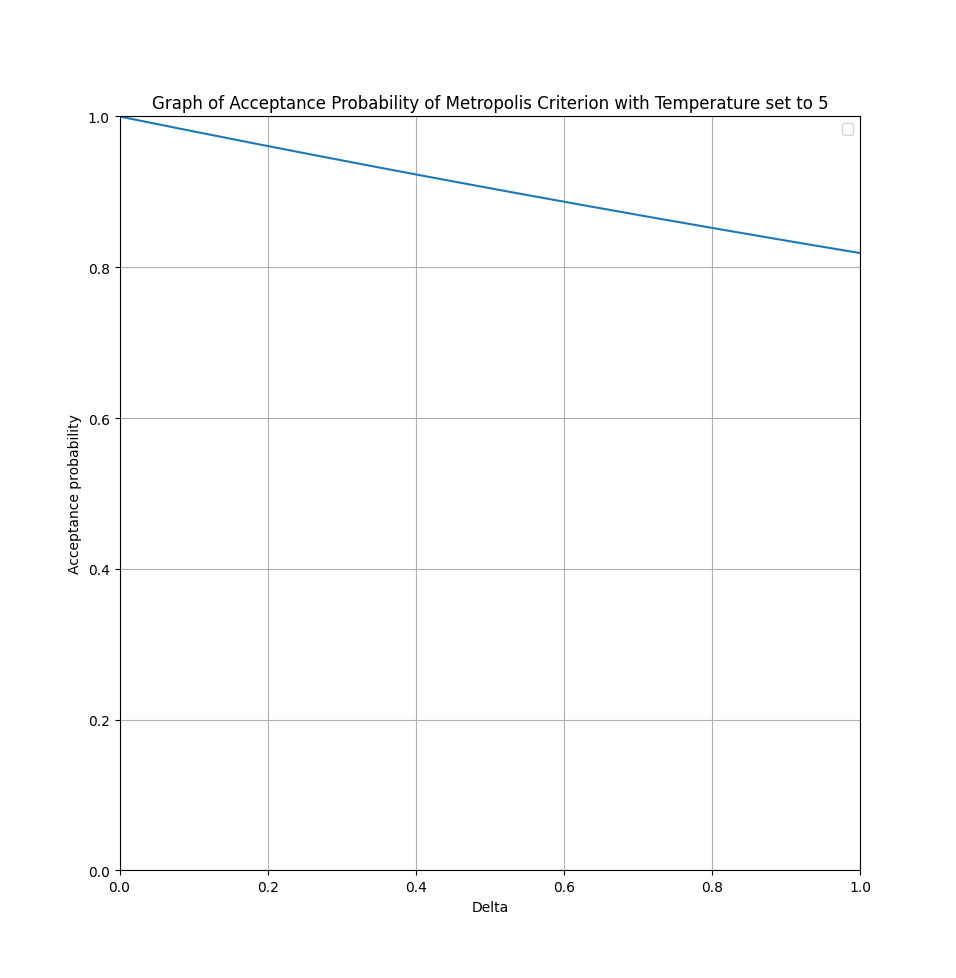
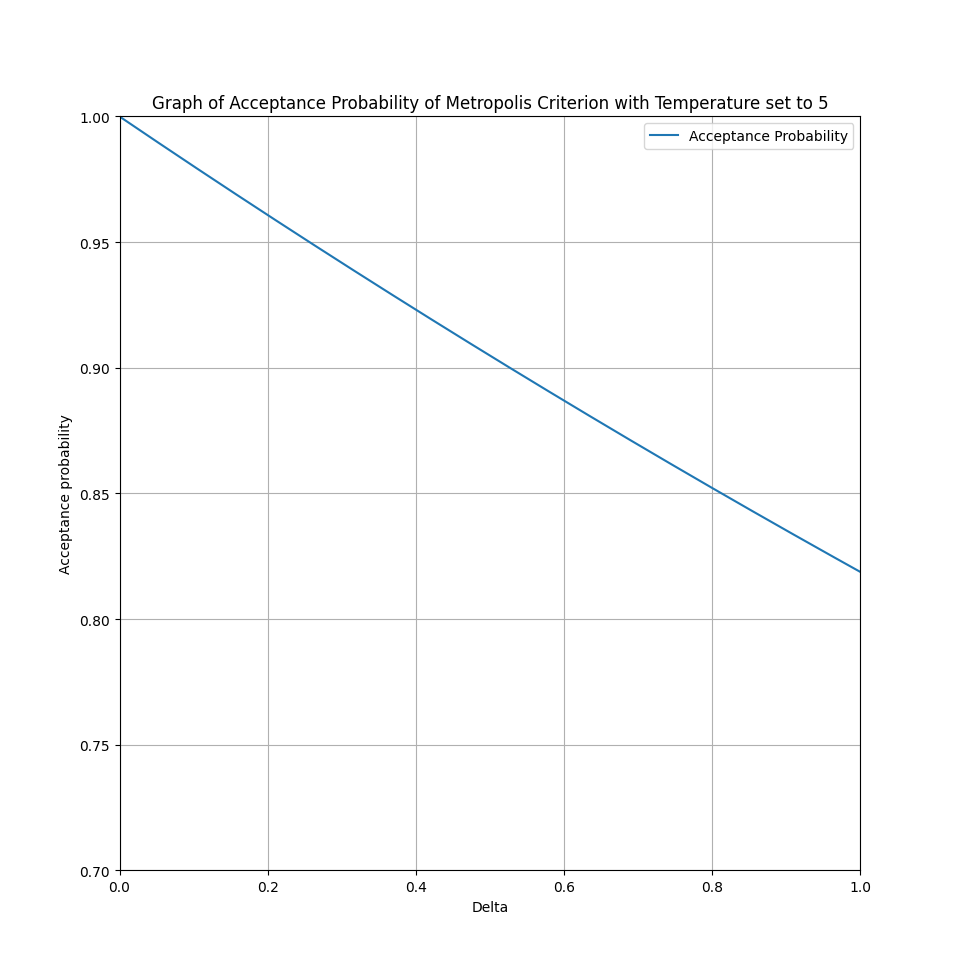
wip

diff --git a/Plots/plot_naiveSolution.py b/Plots/plot_naiveSolution.py
@@ -1,0 +1,60 @@
+import matplotlib.pyplot as plt
+from matplotlib.ticker import FuncFormatter
+
+
+def parse_file(filename):
+    elapsed_times = []
+    costs = []
+    handled_cases = []
+
+    with open(filename, 'r') as file:
+        count = 0
+        for line in file:
+            if 'elapsed' in line or 'UPDATE' in line:
+                parts = line.split(',')
+                elapsed = float(parts[0].split('elapsed: ')[1])
+                handled = int(parts[1].split('handled: ')[1])
+                cost = int(parts[2].split('cost: ')[1])
+
+                elapsed_times.append(elapsed)
+                costs.append(cost)
+                handled_cases.append(handled)
+                count += 1
+            if count == 100:
+                break
+
+    return elapsed_times, costs, handled_cases
+
+
+if __name__ == "__main__":
+    filename = 'naiveSolution.log'
+    elapsed_times, costs, handled_cases = parse_file(filename)
+
+    fig, ax1 = plt.subplots()
+
+    # Plotting cost vs elapsed time
+    color = 'tab:blue'
+    ax1.set_xlabel('Elapsed Time (seconds)')
+    ax1.set_ylabel('Cost', color=color)
+    ax1.plot(elapsed_times, costs, color=color)
+    ax1.tick_params(axis='y', labelcolor=color)
+
+    # Setting y-axis format to integer
+    ax1.get_yaxis().set_major_formatter(
+        FuncFormatter(lambda x, p: format(int(x), ',')))
+
+    ax2 = ax1.twinx()
+
+    # Plotting handled cases vs elapsed time
+    color = 'tab:red'
+    ax2.set_ylabel('Handled Incidents Count', color=color)
+    ax2.plot(elapsed_times, handled_cases, color=color)
+    ax2.tick_params(axis='y', labelcolor=color)
+
+    # Setting y-axis format to integer
+    ax2.get_yaxis().set_major_formatter(
+        FuncFormatter(lambda x, p: format(int(x), ',')))
+
+    fig.tight_layout()
+    plt.title('Cost and Handled Incidents Count Over Time')
+    plt.show()

diff --git a/Plots/plot_metropolis.py b/Plots/plot_metropolis.py
@@ -16,14 +16,16 @@ x = np.linspace(0, 1, 400)
 y = f(x)
 
 # Create the plot
-plt.figure(figsize=(8, 6))
-plt.plot(x, y)
-plt.title(
+fig, ax = plt.subplots()
+fig.set_figheight(0.1)  # Adjust the height
+fig.set_figwidth(4)   # Adjust the width accordingly
+ax.plot(x, y)
+ax.set_title(
     'Graph of Acceptance Probability of Metropolis Criterion with Temperature set to 5')
-plt.xlabel('Delta')
-plt.ylabel('Acceptance probability')
-plt.xlim(0, 1)
-plt.ylim(0, 1)
-plt.grid(True)
-plt.legend()
+ax.set_xlabel('Delta')
+ax.set_ylabel('Acceptance probability')
+ax.set_xlim(0, 1)
+ax.set_ylim(0, 1)
+ax.grid(True)
+ax.legend(['Acceptance Probability'])
 plt.show()
